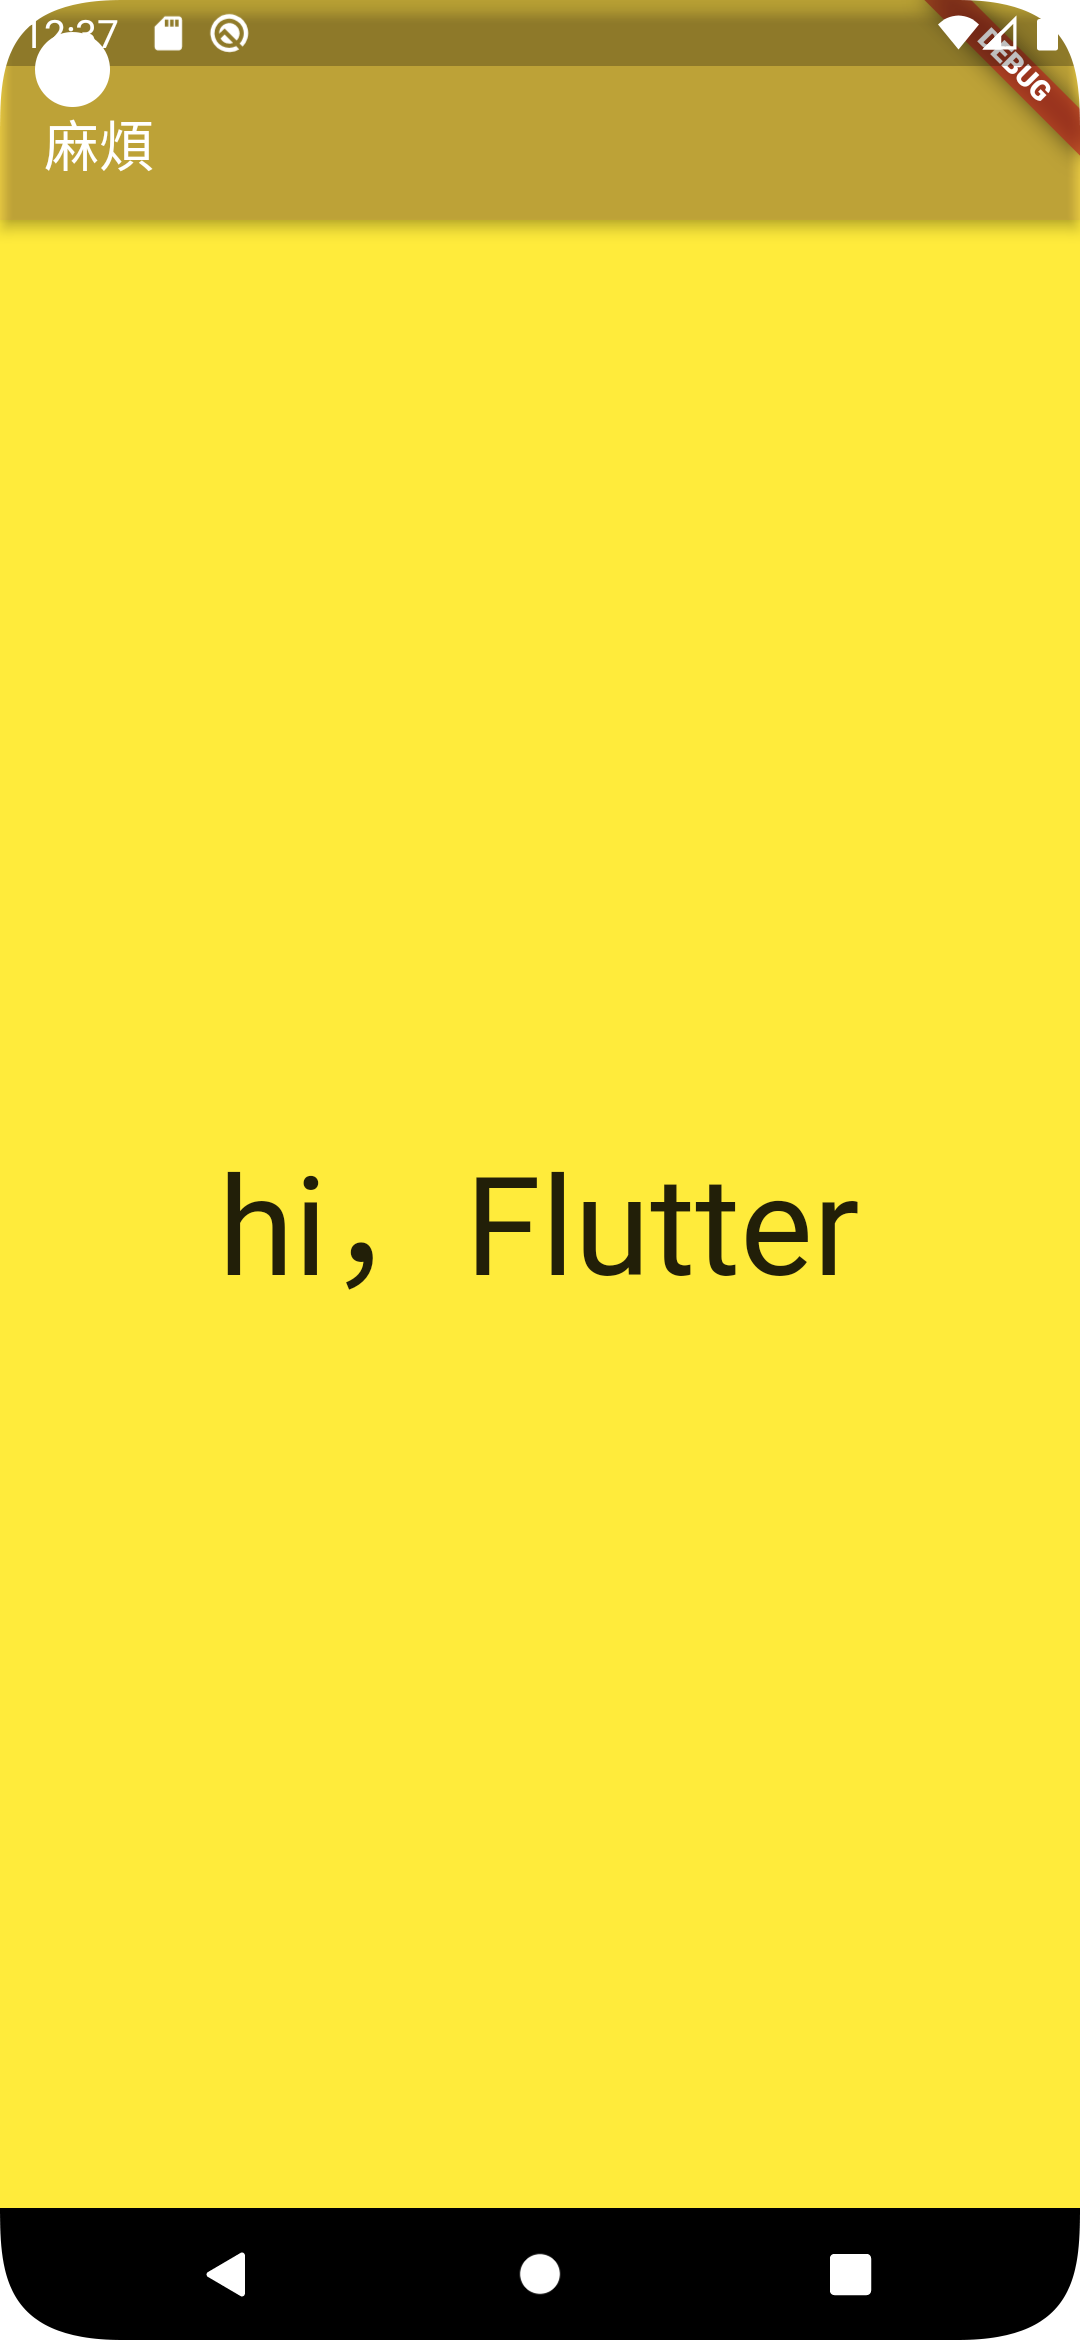
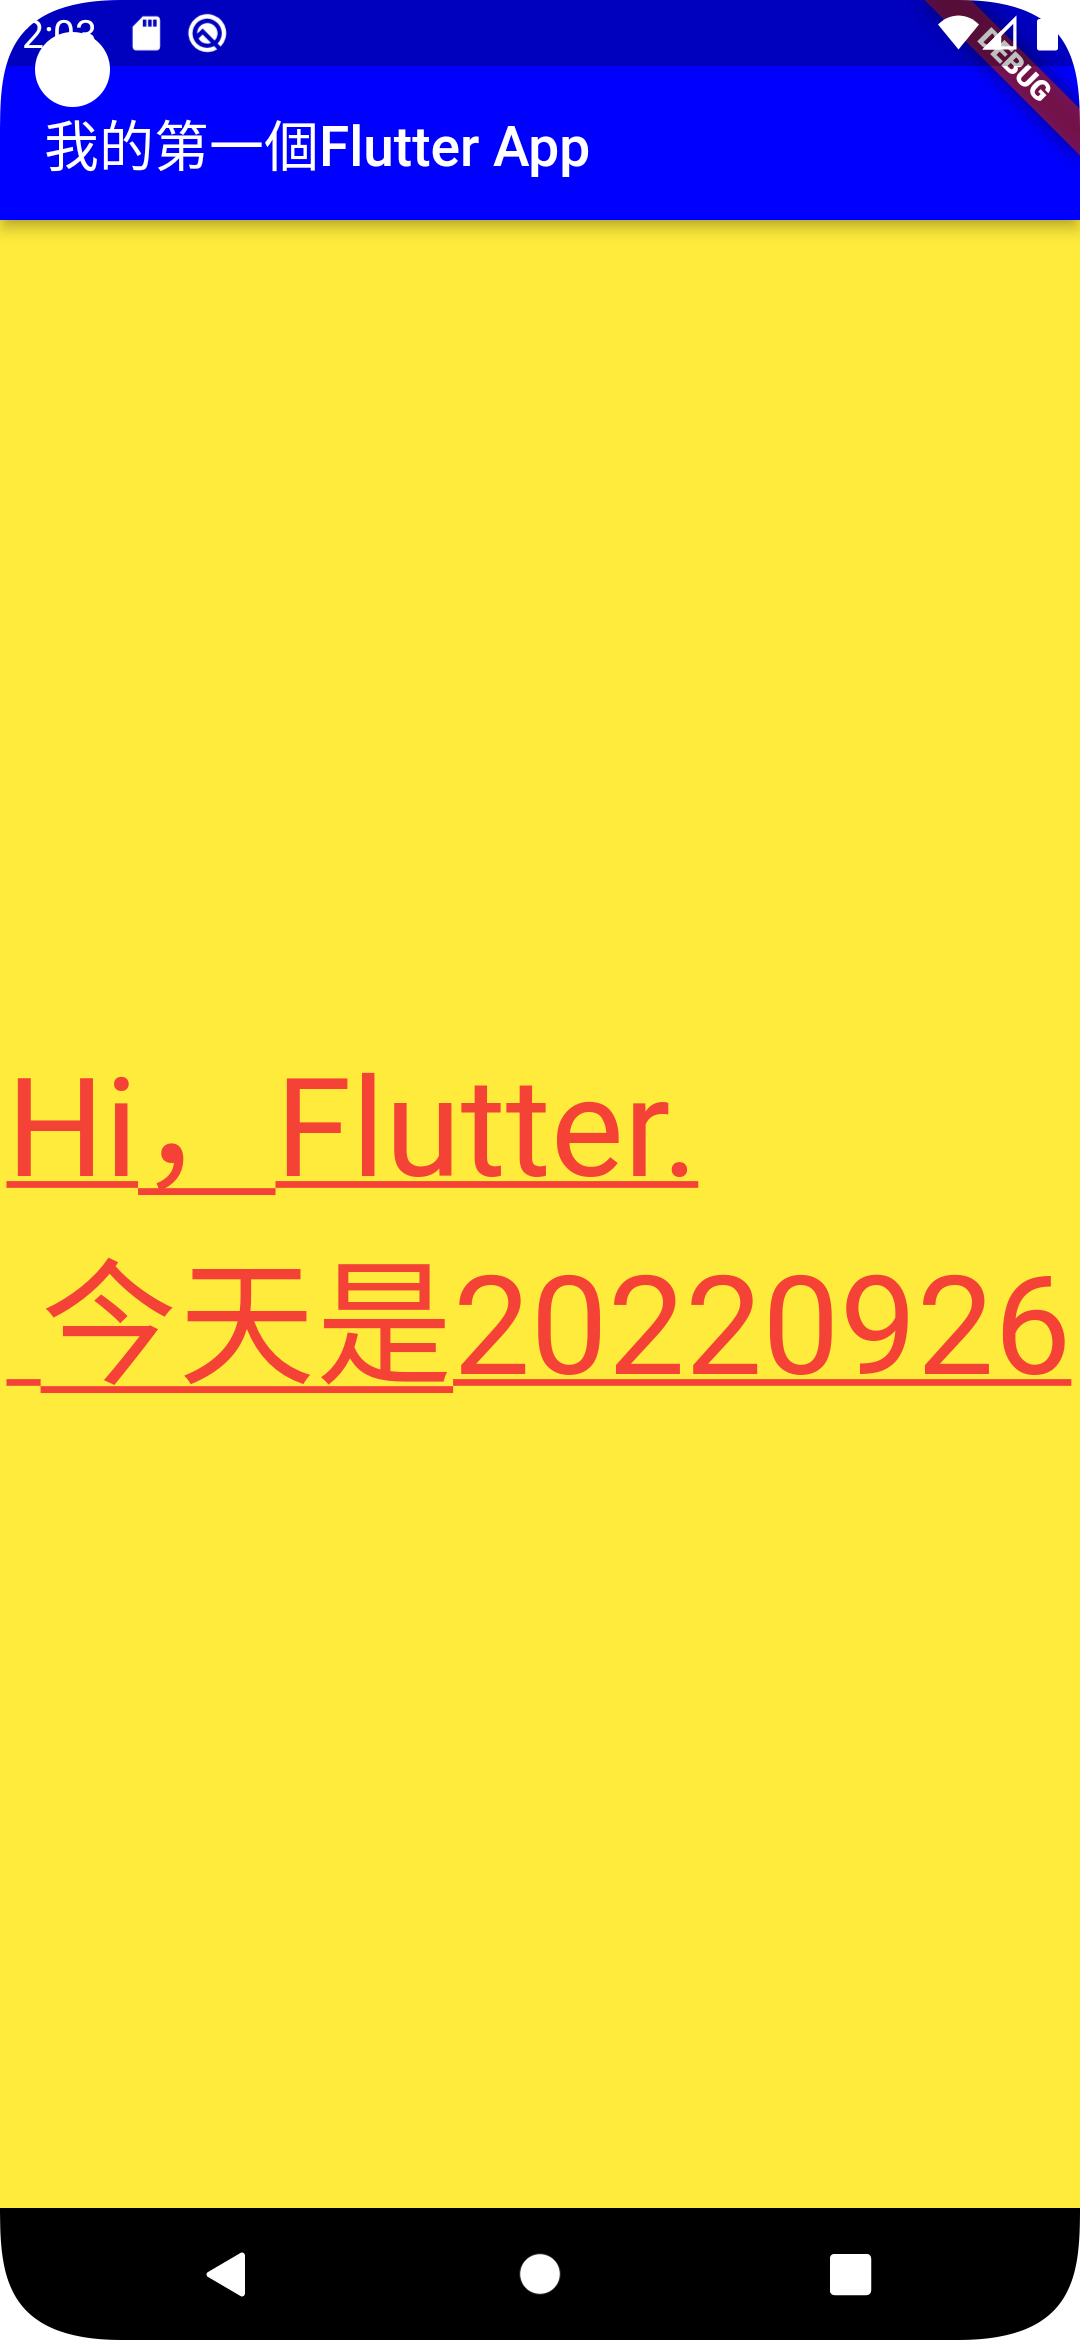
add pic

Changed region(s): [[0.0, 0.4368, 1.0, 0.5927], [0.0, 0.0, 1.0, 0.0936]]

diff --git a/lib/main.dart b/lib/main.dart
@@ -1,11 +1,15 @@
 import 'package:flutter/material.dart';
 
 void main() {
-  var appTitle = Text('麻煩'),
+  var appTitle = Text('我的第一個Flutter App'),
       hiFlutter = Text(
-        'hi，Flutter',
-        style:TextStyle(fontSize: 50),
+        'Hi，Flutter. \n 今天是20220926',
+        style:TextStyle(fontSize: 50,
+            decoration: TextDecoration.underline,
+            color: Colors.red),
       );
+
+
 
   var appBody = Center(
     child: hiFlutter,
@@ -13,7 +17,7 @@ void main() {
 
   var appBar = AppBar(
     title: appTitle,
-    backgroundColor: Color(0xff000ff),
+    backgroundColor: Color(0xff0000ff),
   );
 
   var app = MaterialApp(
